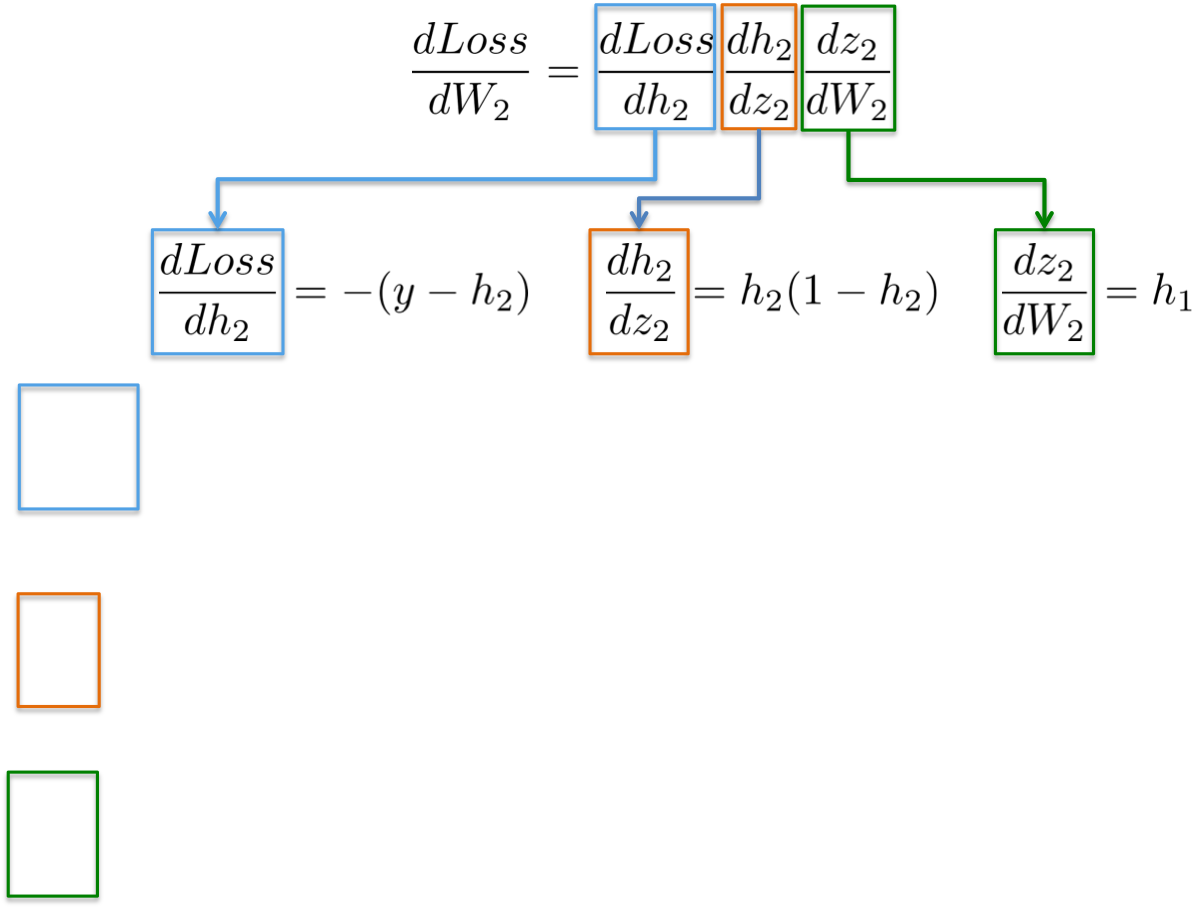
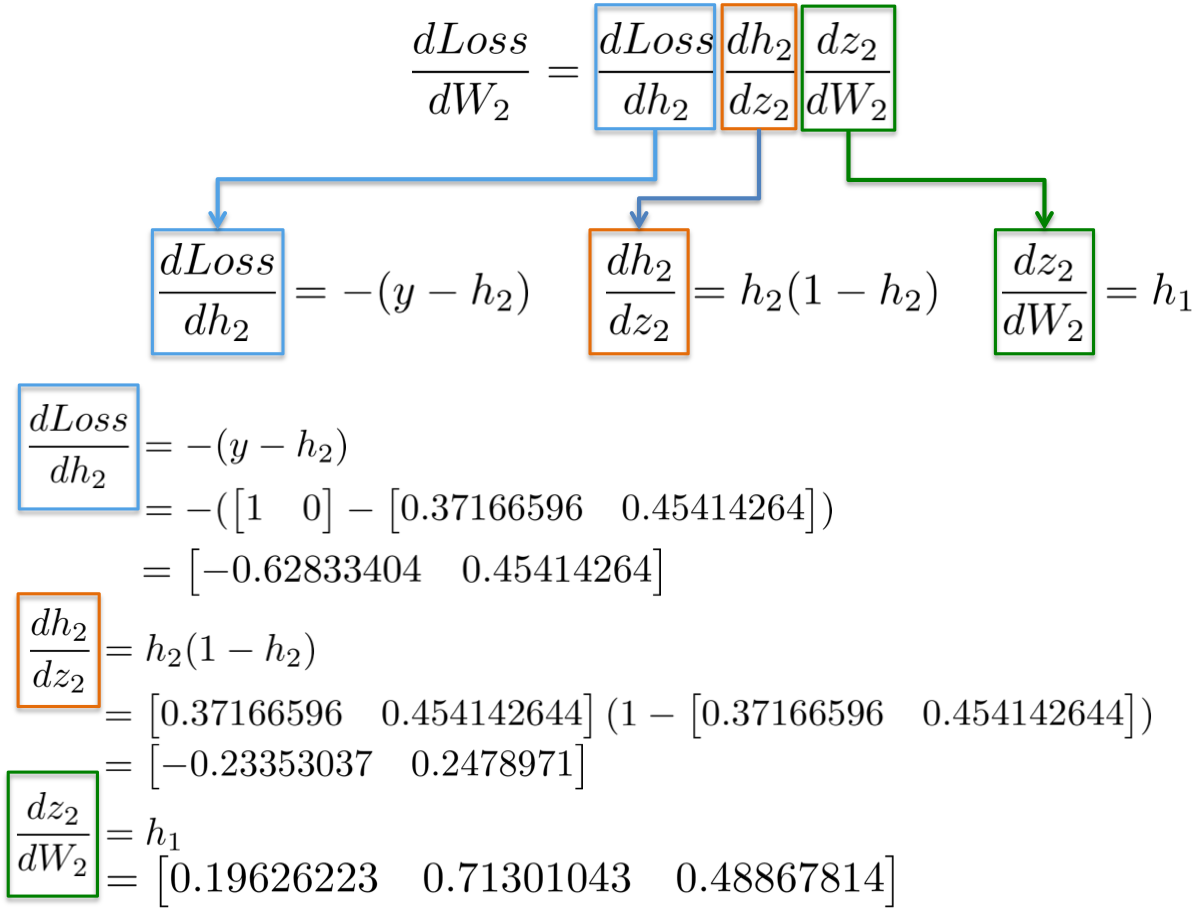
no message

diff --git a/docs/index.md b/docs/index.md
@@ -89,7 +89,7 @@ first hidden layer.
 - And then compute their Sigmoid activation function. This vector [0.37166596 0.45414264] represents the log probability
 (logit) or predicted vector provided by the network given input X.
 
-![alt text](https://raw.githubusercontent.com/omar-florez/scratch_mlp/master/docs/assets/h2.png){:width="200px"}
+![alt text](https://raw.githubusercontent.com/omar-florez/scratch_mlp/master/docs/assets/h2.png){:width="300px"}
 
 ### Computing the Total Loss
 
@@ -103,28 +103,41 @@ regression. In other words, large squared weight values will increase the loss f
 
 ### Backward step:
 >The goal of this step is to update the weights of the neural network in a direction that minimizes its Loss function.
-As we will see, this is a recursive algorithm, which can reuse previous computations of gradient and heavily relies on
-differentiable functions/ Since these updates reduce the loss function, a network is ‘learning’ to react this way when
-seeing similar new patterns. A property called generalization.
+As we will see, this is a recursive algorithm, which can reuse gradients previously computed and heavily relies on
+differentiable functions. Since these updates reduce the loss function, a network is ‘learning’ to approximate the label
+of observations with known classes. A property called generalization.
 
 This step goes in reverse order than the forward step. It computes the partial derivative of the loss function
 with respect to the weights connecting to the output layer (dLoss/dW2) and then the hidden layer (dLoss/dW1).
 
 #### dLoss/dW2:
 
-By applying the chain rule, we know that
+The chain rule says that we can decompose the modular structure of a neural network into diferentiable pieces:
 
 ![alt text](https://raw.githubusercontent.com/omar-florez/scratch_mlp/master/docs/assets/chain_w2.png){:width="500px"}
 
-More visually, our goal is to update the weights in blue in the below figure (W2). In order to that,
+More visually, we aim to update the weights in blue in the below figure (W2). In order to that, we need to compute the
+three partial derivatives along the chain.
+![alt text](https://raw.githubusercontent.com/omar-florez/scratch_mlp/master/docs/assets/update_w2.png){:width="500px"}
 
-![alt text](https://raw.githubusercontent.com/omar-florez/scratch_mlp/master/docs/assets/chain_w2.png){:width="500px"}
+Replacing those functions with their partial derivatives give us:
 ![alt text](https://raw.githubusercontent.com/omar-florez/scratch_mlp/master/docs/assets/chain_w2_numbers.png){:width="500px"}
-![alt text](https://raw.githubusercontent.com/omar-florez/scratch_mlp/master/docs/assets/chain_w2_numbers_final.png){:width="500px"}
+
+And now plugin in the matrices:
 ![alt text](https://raw.githubusercontent.com/omar-florez/scratch_mlp/master/docs/assets/chain_w2_detailed.png){:width="500px"}
+
+#### dLoss/dW2:
+
+The chain rule for updaring the weights of the first weights:
 ![alt text](https://raw.githubusercontent.com/omar-florez/scratch_mlp/master/docs/assets/chain_w1.png){:width="500px"}
+
+We can reuse existing computations:
 ![alt text](https://raw.githubusercontent.com/omar-florez/scratch_mlp/master/docs/assets/chain_w1_numbers.png){:width="500px"}
- 
+
+Placing all values together:
+![alt text](https://raw.githubusercontent.com/omar-florez/scratch_mlp/master/docs/assets/chain_w1_numbers_final.png){:width="500px"}
+
+
 
 
 [Github Pages](https://pages.github.com) provide a simple way to make a website using
